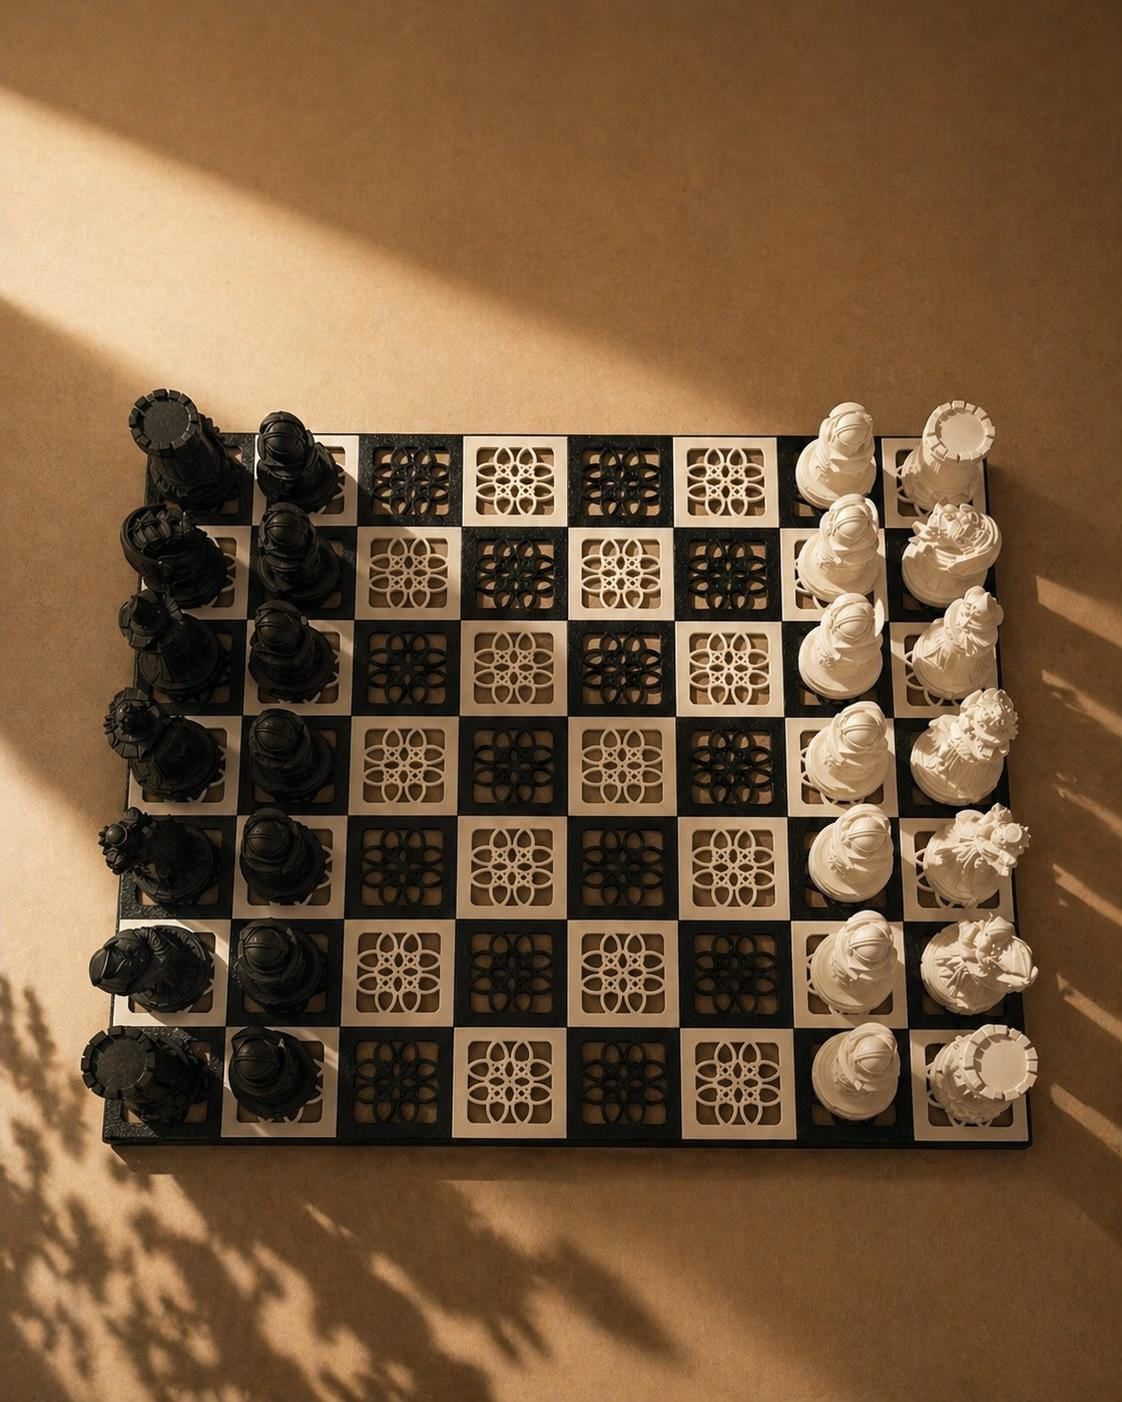
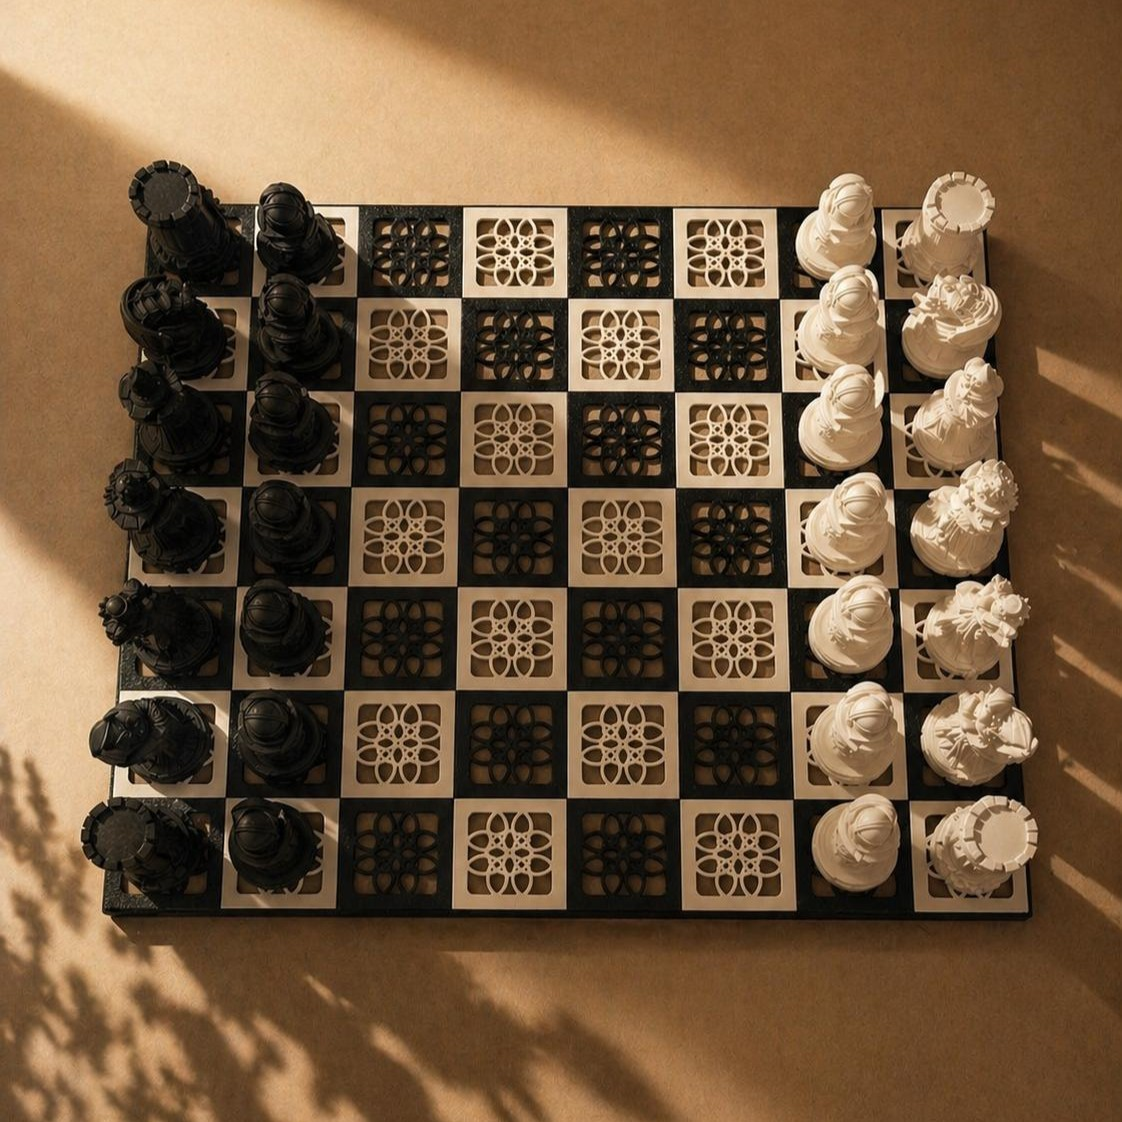
fixed more photos

diff --git a/src/App.jsx b/src/App.jsx
@@ -9,7 +9,6 @@ const shopProducts = [
     name: "Modern Flower Vase",
     category: "Home / Decor",
     price: "5 BHD",
-    badge: "Home Piece",
     tags: ["Home / Decor"],
     colorOptions: ["Black", "White", "Beige", "Terracotta"],
     description: "A modern decorative vase designed for clean shelves, tables, and minimalist spaces.",
@@ -20,7 +19,7 @@ const shopProducts = [
       "Custom color available",
     ],
     media: [
-    { type: "image", src: "/products/vase-1.jpg", label: "Front View" },
+    { type: "image", src: "/products/vase-1.jpg" },
   ],
   },
   {
@@ -28,7 +27,6 @@ const shopProducts = [
     name: "Medieval Chess Set",
     category: "Board Games",
     price: "12 BHD",
-    badge: "Statement Piece",
     tags: ["Board Games", "Toys", "Decor"],
     description: "A medieval-inspired chess set that works as both a playable board game and a display piece.",
     details: [
@@ -38,9 +36,9 @@ const shopProducts = [
       "Custom color available",
     ],
     media: [
-    { type: "image", src: "/products/chess-1.jpg", label: "Board View" },
-    { type: "image", src: "/products/chess-2.jpg", label: "White Pieces Close-Up" },
-    { type: "image", src: "/products/chess-3.jpg", label: "Black Pieces Close-Up" },
+    { type: "image", src: "/products/chess-1.jpg" },
+    { type: "image", src: "/products/chess-2.jpg" },
+    { type: "image", src: "/products/chess-3.jpg" },
   ],
   },
   {
@@ -281,10 +279,23 @@ function HomePage({ setPage, openProduct }) {
             <div className="grid gap-6 md:grid-cols-3">
               {featuredProducts.map((product) => (
                 <div key={product.id} className="overflow-hidden rounded-[1.75rem] border border-white/10 bg-white/[0.03] transition hover:bg-white/[0.05]">
-                  <div className="flex h-56 items-end justify-between border-b border-white/10 bg-gradient-to-br from-white/[0.08] via-white/[0.03] to-transparent p-6">
-                    <div className="text-4xl font-semibold text-white/20">{product.id}</div>
-                    <div className="rounded-full border border-white/10 px-3 py-1 text-[11px] uppercase tracking-[0.24em] text-white/45">{product.badge}</div>
-                  </div>
+                  <div className="relative h-56 overflow-hidden border-b border-white/10 bg-white/[0.03]">
+  {product.media?.[0]?.src ? (
+    <img
+      src={product.media[0].src}
+      alt={product.name}
+      className="h-full w-full object-contain p-3"
+    />
+  ) : (
+    <div className="flex h-full items-end justify-between bg-gradient-to-br from-white/[0.08] via-white/[0.03] to-transparent p-6">
+      <div className="text-4xl font-semibold text-white/20">{product.id}</div>
+    </div>
+  )}
+
+  <div className="absolute bottom-6 right-6 rounded-full border border-white/10 bg-black/50 px-3 py-1 text-[11px] uppercase tracking-[0.24em] text-white/70">
+    {product.badge}
+  </div>
+</div>
                   <div className="p-6">
                     <div className="text-xs uppercase tracking-[0.28em] text-white/35">{product.category}</div>
                     <h3 className="mt-3 text-xl font-medium">{product.name}</h3>
@@ -389,10 +400,23 @@ function ShopPage({ setPage, openProduct, addToCart }) {
           <div className="grid gap-6 sm:grid-cols-2 xl:grid-cols-3">
             {products.map((product) => (
               <div key={product.id} className="overflow-hidden rounded-[1.75rem] border border-white/10 bg-white/[0.03] transition hover:bg-white/[0.05]">
-                <div className="flex h-72 items-end justify-between border-b border-white/10 bg-gradient-to-br from-white/[0.08] via-white/[0.03] to-transparent p-6">
-                  <div className="text-5xl font-semibold text-white/20">{product.id}</div>
-                  <div className="rounded-full border border-white/10 px-3 py-1 text-[11px] uppercase tracking-[0.24em] text-white/45">{product.badge}</div>
-                </div>
+                <div className="relative h-72 overflow-hidden border-b border-white/10 bg-white/[0.03]">
+  {product.media?.[0]?.src ? (
+    <img
+      src={product.media[0].src}
+      alt={product.name}
+      className="h-full w-full object-contain p-3"
+    />
+  ) : (
+    <div className="flex h-full items-end justify-between bg-gradient-to-br from-white/[0.08] via-white/[0.03] to-transparent p-6">
+      <div className="text-5xl font-semibold text-white/20">{product.id}</div>
+    </div>
+  )}
+
+  <div className="absolute bottom-6 right-6 rounded-full border border-white/10 bg-black/50 px-3 py-1 text-[11px] uppercase tracking-[0.24em] text-white/70">
+    {product.badge}
+  </div>
+</div>
                 <div className="p-6">
                   <div className="text-xs uppercase tracking-[0.28em] text-white/35">{product.category}</div>
                   <h3 className="mt-3 text-xl font-medium">{product.name}</h3>
@@ -676,15 +700,15 @@ const goToNextMedia = () => {
           <div id="product-gallery" className="mx-auto grid max-w-7xl gap-10 px-6 pb-16 md:grid-cols-[1fr_1fr] md:pb-20">
             <div>
              <div className="rounded-[2rem] border border-white/10 bg-white/[0.03] p-6">
-  <div className="relative flex h-[420px] items-end justify-between rounded-[1.5rem] border border-white/10 bg-gradient-to-br from-white/[0.08] via-white/[0.03] to-transparent p-8">
+  <div className="relative flex h-[420px] items-center justify-center overflow-hidden rounded-[1.5rem] border border-white/10 bg-gradient-to-br from-white/[0.08] via-white/[0.03] to-transparent p-4">
     <button
-      type="button"
-      onClick={goToPreviousMedia}
-      className="absolute left-4 top-1/2 flex h-11 w-11 -translate-y-1/2 items-center justify-center rounded-full border border-white/15 bg-black/45 text-lg text-white transition hover:bg-black/65"
-      aria-label="Previous image"
-    >
-      ←
-    </button>
+  type="button"
+  onClick={goToPreviousMedia}
+  className="absolute left-4 top-1/2 flex h-[44px] w-[44px] shrink-0 -translate-y-1/2 items-center justify-center rounded-full border border-white/15 bg-black/45 text-lg leading-none text-white transition hover:bg-black/65"
+  aria-label="Previous image"
+>
+  ←
+</button>
 
    <div className="flex w-full flex-col items-center justify-center">
   {mediaItems.length === 0 ? (
@@ -693,13 +717,13 @@ const goToNextMedia = () => {
     <video
       src={mediaItems[activeMedia].src}
       controls
-      className="max-h-[300px] w-full rounded-2xl object-contain"
+      className="max-h-[360px] w-auto object-contain"
     />
   ) : (
     <img
       src={mediaItems[activeMedia]?.src}
       alt={mediaItems[activeMedia]?.label || product.name}
-      className="max-h-[300px] w-full rounded-2xl object-contain"
+      className="max-h-[360px] w-auto object-contain"
     />
   )}
 
@@ -715,8 +739,7 @@ const goToNextMedia = () => {
     <button
       type="button"
       onClick={goToNextMedia}
-      className="absolute right-4 top-1/2 flex h-11 w-11 -translate-y-1/2 items-center justify-center rounded-full border border-white/15 bg-black/45 text-lg text-white transition hover:bg-black/65"
-      aria-label="Next image"
+      className="absolute right-4 top-1/2 flex h-[44px] w-[44px] shrink-0 -translate-y-1/2 items-center justify-center rounded-full border border-white/15 bg-black/45 text-lg leading-none text-white transition hover:bg-black/65"
     >
       →
     </button>
